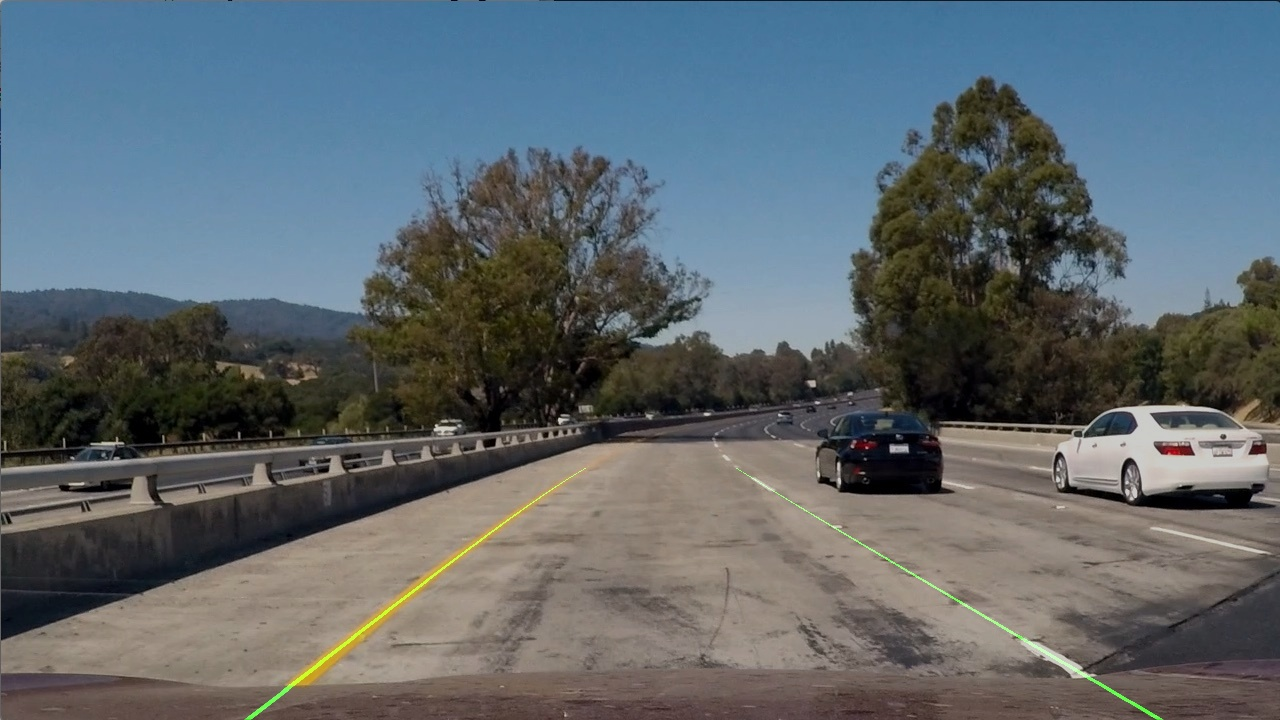
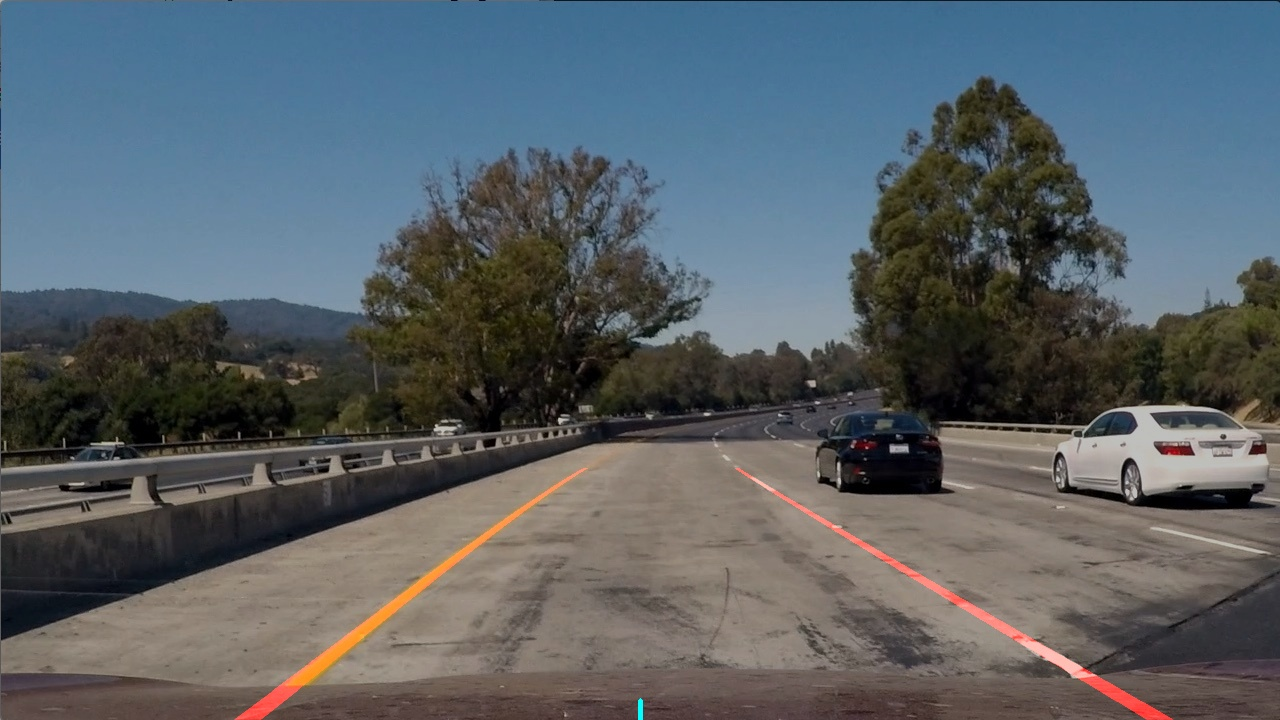
plot camera horizontal center

diff --git a/alf/processor.py b/alf/processor.py
@@ -16,7 +16,7 @@ def create_canvas(image):
     return numpy.zeros((image.shape[0], image.shape[1], 3), dtype=numpy.uint8)
 
 
-def weighted_img(binary_image, original_image, α=0.8, β=1., γ=0.):
+def weighted_img(binary_image, original_image, α=0.75, β=1., γ=0.):
     """
 
     """
@@ -61,14 +61,20 @@ def frame_pipeline(distortion_corrector):
         warped_image_windowed, left_curve, right_curve = detector.fit_polynomial(
             warped_image)
 
-        # 6. Plot lines and radius of curvature of the lane and the position of the vehicle
+        # 6. Unwarp image
+        unwarped_image = warper.unwarp(warped_image_windowed)
+
+        # 7. Plot lines and radius of curvature of the lane and the position of the vehicle
         # with respect to center. We need to make and inverse transform of the lines found in 5.
         # and plot / superimpose them on the original image. The radius and vehicle center can
         # redered as text
-        unwarped_image = warper.unwarp(warped_image_windowed)
 
-        # 7. Plot results
+        # 8. Plot results
         overlayed = weighted_img(unwarped_image, frame)
+
+        height, width = overlayed.shape[:2]
+        cv2.line(overlayed, (width//2, height),
+                 (width//2, height-20), (255, 255, 0), 3)
 
         # Save examples
         if snapshot:

diff --git a/alf/detectors/lane_detector.py b/alf/detectors/lane_detector.py
@@ -97,8 +97,10 @@ class LaneDetector(object):
             (right_fitx.astype(np.int32), ploty.astype(np.int32)))
 
         cv2.polylines(out_img, [left_curve],
-                      isClosed=False, color=(0, 255, 0), thickness=5)
+                      isClosed=False, color=(0, 0, 255), thickness=25)
         cv2.polylines(out_img, [right_curve], isClosed=False,
-                      color=(0, 255, 0), thickness=5)
+                      color=(0, 0, 250), thickness=25)
+
+        # cv2.fillPoly(out_img, points, 200)
 
         return out_img, left_curve, right_curve
